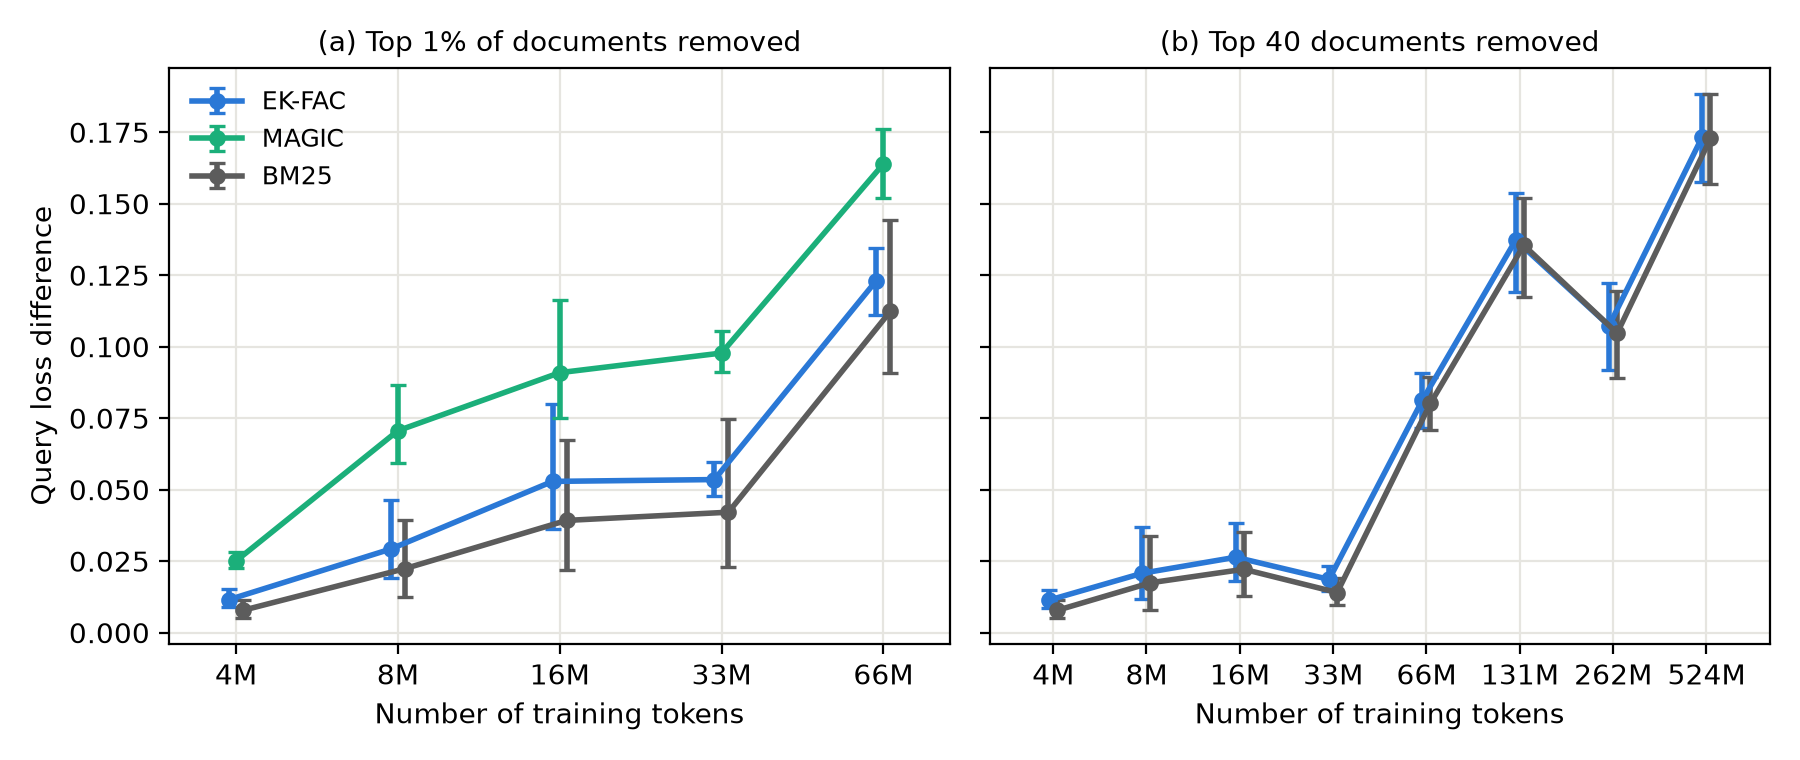
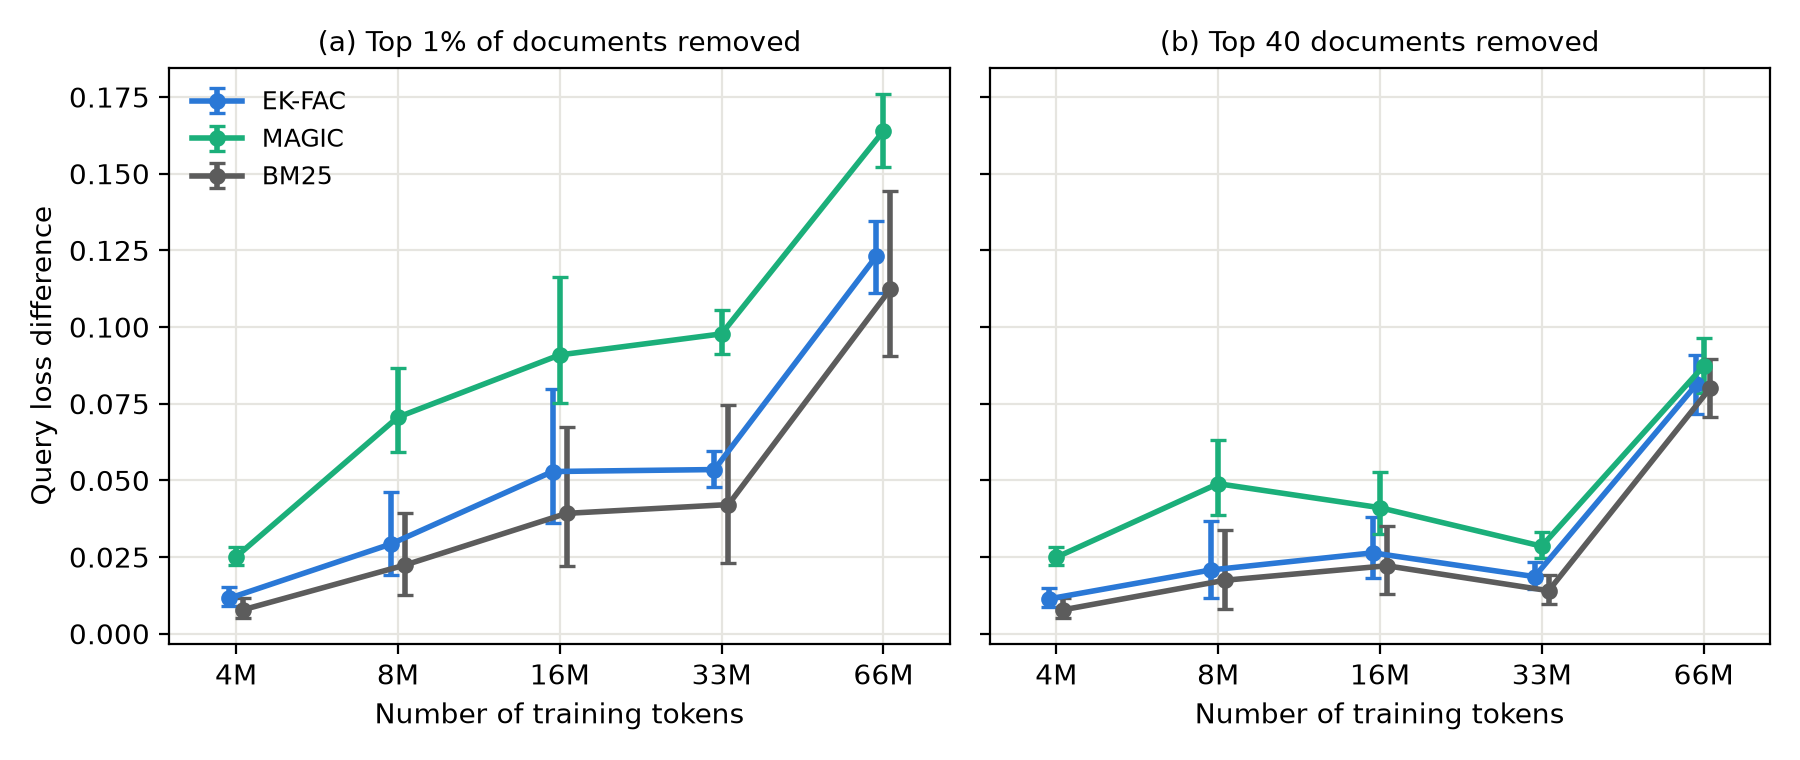
Fix MAGIC top-40 selection: slices must carry MAGIC higher_is_better=false; corrected 32k/64k points
slicefix.py hardcoded higher_is_better: true into every score slice, which
overrode bergson resolve_higher_is_better for the sharded 32k/64k MAGIC
top-40 filters and selected the most-positive (noise) docs. MAGIC records
False (proponents = most-negative). Result was a uniformly negative, off-trend
QLD at 33M/66M. slicefix now copies the source config; existing MAGIC slices
set to false; 32k/64k re-run as 2-query shards with reused controls.

Corrected: 32k QLD +0.0285, 64k QLD +0.0873 (20/20 queries, rank 1 each).
Methods appendix panel (b) capped at 64k docs to match panel (a).

Also: NaN-safe summary_delta_ci (a diverged query no longer erases a point),
figure_audit caps match the figure, gate_ekfac purges use timestamped names,
builder scripts deprecated, README workflow updated.

Claude-Session: https://claude.ai/code/session_0167XKnE2yoCE162n3jHvxC1

diff --git a/scripts/slicefix.py b/scripts/slicefix.py
@@ -1,0 +1,42 @@
+#!/usr/bin/env python3
+"""Slice bergson scores.bin into per-query-column shards (CORRECT alignment).
+    slicefix.py <scores_dir> <out_dir> <out_prefix> <shard_size> [<n_queries>]
+Source dtype is read from info.json offsets (8-byte aligned); reconstructing it
+unaligned misreads every record past row 0 (the 2026-09-04 bug)."""
+import json, sys
+import numpy as np
+from pathlib import Path
+src = Path(sys.argv[1]); out_dir = Path(sys.argv[2]); prefix = sys.argv[3]; step = int(sys.argv[4])
+info = json.load(open(src / "info.json")); dd = info["dtype"]
+nrows = info["num_rows"]; nqs = int(sys.argv[5]) if len(sys.argv) > 5 else info["num_scores"]
+sdt = np.dtype({"names": dd["names"], "formats": [np.dtype(f) for f in dd["formats"]],
+                "offsets": dd["offsets"], "itemsize": dd["itemsize"]})
+mm = np.memmap(src / "scores.bin", dtype=sdt, mode="r", shape=(nrows,))
+for lo in range(0, nqs, step):
+    hi = min(lo + step, nqs); out = out_dir / f"{prefix}_q{lo}_{hi}"; out.mkdir(parents=True, exist_ok=True)
+    on, of = [], []
+    for j in range(hi - lo): on += [f"score_{j}", f"written_{j}"]; of += ["float32", "bool"]
+    odt = np.dtype({"names": on, "formats": of}, align=True)
+    om = np.memmap(out / "scores.bin", dtype=odt, mode="w+", shape=(nrows,))
+    for j in range(hi - lo): om[f"score_{j}"] = mm[f"score_{lo+j}"]; om[f"written_{j}"] = mm[f"written_{lo+j}"]
+    om.flush()
+    oi = dict(info); oi["num_scores"] = hi - lo
+    oi["dtype"] = {"names": on, "formats": of, "offsets": [odt.fields[n][1] for n in on], "itemsize": odt.itemsize}
+    json.dump(oi, open(out / "info.json", "w"), indent=2)
+    # Copy the source config verbatim so the slice inherits the source score
+    # convention (higher_is_better). Hardcoding true here silently flipped
+    # MAGIC (which records false) and inverted proponent selection (2026-09-04b).
+    src_cfg = src / "config.yaml"
+    if src_cfg.is_file():
+        (out / "config.yaml").write_text(src_cfg.read_text())
+    else:
+        (out / "config.yaml").write_text("steps:\n- score:\n    score_cfg:\n      score: individual\n")
+    # Self-check: the slice's column j MUST equal the source's column lo+j
+    # exactly. A silent alignment mismatch (the 2026-09-04 bug) selects wrong
+    # docs and produces garbage filter deltas.
+    _v = np.memmap(out / "scores.bin", dtype=odt, mode="r", shape=(nrows,))
+    for j in range(hi - lo):
+        assert np.array_equal(np.asarray(_v[f"score_{j}"]),
+                              np.asarray(mm[f"score_{lo+j}"])), \
+            f"SLICE MISMATCH col {j} in {out} -- alignment bug"
+    print(f"sliced {out} [verified]")

diff --git a/scripts/scaling_plot_mpl.py b/scripts/scaling_plot_mpl.py
@@ -14,6 +14,7 @@ Regenerate whenever experiments.csv is rebuilt or a top-40 filter lands.
 """
 import argparse
 import csv
+import math
 import os
 import pathlib
 import random
@@ -93,6 +94,11 @@ def summary_delta_ci(run, subdir, *, subtract_random=False,
         val = float(row[column])
         if subtract_random:
             val -= float(row["random_mean"])
+        # A single NaN query (e.g. a diverged retrain) would turn the whole
+        # point into NaN and drop it from the figure silently. Skip it and
+        # let the remaining queries carry the mean.
+        if not math.isfinite(val):
+            continue
         d.append(val)
     if not d:
         return None
@@ -229,13 +235,19 @@ style(ax1, tok_ticks[:CUT], tok_labels[:CUT], "Number of training tokens")
 ax1.set_title("(a) Top 1% of documents removed", fontsize=10)
 ax1.legend(loc="upper left", frameon=False, fontsize=9)
 
-t40_ticks = [tokens(n) for n, _ in TOP40_ROWS]
+# Top-40 panel capped at 64k docs (66M tokens) so all three methods span the
+# same range as panel (a) and the MAGIC series; 128k+ dropped.
+T40 = [(n, run) for n, run in TOP40_ROWS if n <= 64000]
+t40_ticks = [tokens(n) for n, _ in T40]
 draw(ax2, [t * 0.97 for t in t40_ticks],
      [summary_delta_ci(run, "filter_top40_ekfac", subtract_random=True)
-      for _, run in TOP40_ROWS], BLUE)
+      for _, run in T40], BLUE)
+draw(ax2, [t for t in t40_ticks],
+     [summary_delta_ci(run, "filter_top40_magic", subtract_random=True)
+      for _, run in T40], AQUA)
 draw(ax2, [t * 1.03 for t in t40_ticks],
      [summary_delta_ci(run, "filter_top40_bm25", subtract_random=True)
-      for _, run in TOP40_ROWS], BM25)
+      for _, run in T40], BM25)
 style(ax2, t40_ticks, [f"{t / 1e6:.0f}M" for t in t40_ticks],
       "Number of training tokens")
 ax2.set_title("(b) Top 40 documents removed", fontsize=10)

diff --git a/scripts/filter_vs_lds_plot.py b/scripts/filter_vs_lds_plot.py
@@ -75,14 +75,14 @@ for ax, (scorer, label) in zip(axes, [("magic", "MAGIC"), ("ekfac", "EK-FAC")]):
     x = np.array([p[0] for p in pts])
     y = np.array([p[1] for p in pts])
     s = np.array([p[2] for p in pts])
+    muon = np.array([p[4] for p in pts])
     rho = spearmanr(x, y).statistic
     lo, hi = boot(x, y)
     hi_mask = s > 125
     rho_hi = spearmanr(x[hi_mask], y[hi_mask]).statistic
     lo_hi, hi_hi = boot(x[hi_mask], y[hi_mask])
 
-    sc = ax.scatter(x, y, c=s, norm=LogNorm(), cmap="viridis",
-                    s=55, edgecolor="white", linewidth=0.6, zorder=3)
+    sc = split_scatter(ax, x, y, s, muon)
     ax.set_title(f"{label}   $\\rho$ = {rho:+.3f} [{lo:+.2f}, {hi:+.2f}]  (n = {len(x)})",
                  fontsize=11)
     ax.text(0.03, 0.96, f">125 steps:  $\\rho$ = {rho_hi:+.3f} [{lo_hi:+.2f}, {hi_hi:+.2f}]"
@@ -131,7 +131,7 @@ grid[1][0].legend(handles=[
     Line2D([], [], marker="^", linestyle="", color="#777", label="Muon")],
     frameon=False, loc="upper left", fontsize=9)
 
-fig.colorbar(sc, ax=grid, label="training steps", pad=0.01)
+fig.colorbar(sc, ax=grid, label="Training steps", pad=0.01)
 out = ROOT / "figures" / "filter_vs_lds.png"
 fig.savefig(out, dpi=160)
 print(f"  wrote {out}")

diff --git a/scripts/gate_ekfac.py b/scripts/gate_ekfac.py
@@ -52,7 +52,7 @@ def check_inverse(run, purge=False):
         print("inverse: gradients.bin is EMPTY (0 bytes) -> GATE FAIL")
         if purge:
             d = os.path.dirname(p)
-            os.rename(d, d + ".invalid")
+            os.rename(d, d + ".invalid_" + __import__("time").strftime("%Y%m%d_%H%M%S"))
             print(f"purged: {d} -> .invalid")
         return False
     s = sample(np.memmap(p, dtype=np.float32, mode="r"))
@@ -65,7 +65,7 @@ def check_inverse(run, purge=False):
         # bergson's resume checks the DIRECTORY, not file content -- purging only
         # gradients.bin leaves kfac_query/ "complete" and scoring runs gradient-less.
         d = os.path.dirname(p)
-        os.rename(d, d + ".invalid")
+        os.rename(d, d + ".invalid_" + __import__("time").strftime("%Y%m%d_%H%M%S"))
         print(f"purged: {d} -> .invalid (resume will recompute the stage)")
     return ok
 

diff --git a/scripts/bm25_scores.py b/scripts/bm25_scores.py
@@ -168,6 +168,7 @@ def main():
     ap.add_argument("--ngram-max", type=int, default=2)
     ap.add_argument("--min-df", type=int, default=1)
     ap.add_argument("--force", action="store_true")
+    ap.add_argument("--query-dataset", default=None)
     args = ap.parse_args()
 
     root = root_for(args.run_id)
@@ -179,7 +180,7 @@ def main():
     exp = run_config.load(root)
     magic = next(s["magic"] for s in exp["steps"] if "magic" in s)
     train_ds_s = mirrored(magic["data"]["dataset"])
-    query_ds_s = mirrored(magic["query"]["dataset"])
+    query_ds_s = args.query_dataset or mirrored(magic["query"]["dataset"])
     train = load_data_string(train_ds_s, magic["data"].get("split", "train"))
     query = load_data_string(query_ds_s, magic["query"].get("split", "train"))
     train_docs, train_mode = docs(train, magic["data"].get("prompt_column", "text"), magic["model"])

diff --git a/scripts/jina_scores.py b/scripts/jina_scores.py
@@ -102,6 +102,7 @@ def main():
     ap.add_argument("--batch-size", type=int, default=16)
     ap.add_argument("--device", default="cuda:0")
     ap.add_argument("--force", action="store_true")
+    ap.add_argument("--query-dataset", default=None)
     args = ap.parse_args()
 
     root = next((b / args.run_id for b in EXP if (b / args.run_id).is_dir()), None)
@@ -113,7 +114,7 @@ def main():
     exp = run_config.load(root)
     magic = next(s["magic"] for s in exp["steps"] if "magic" in s)
     train_ds = mirrored(magic["data"]["dataset"])
-    query_ds = mirrored(magic["query"]["dataset"])
+    query_ds = args.query_dataset or mirrored(magic["query"]["dataset"])
     # datasets here are pre-tokenized gpt2 input_ids; decode back to text
     from transformers import AutoTokenizer
     gpt2_tok = AutoTokenizer.from_pretrained("gpt2")

diff --git a/scripts/figure_audit.py b/scripts/figure_audit.py
@@ -100,7 +100,11 @@ FIGS.append(("filter_batch_appendix.png  (batch sweep at 16k)",
               for name, pre in SERIES for b in BATCHES]))
 FIGS.append(("filter_method_appendix.png  (EK-FAC vs MAGIC)",
              [(f"{m.upper()} {n//1000}k", pick(SERIES[0][1], f"{n//1000}k_bs256"), m)
-              for m in ("ekfac", "magic") for n in NS]))
+              # Panel (b) top-40 caps at 128k (66M tokens); serial MAGIC scoring
+              # stops at 64k. Beyond those the figure has no point, so auditing
+              # them produced permanent false MISSING flags.
+              for m in ("ekfac", "magic") for n in NS
+              if n <= 64000]))
 
 for title, points in FIGS:
     holes = []

diff --git a/README.md b/README.md
@@ -20,8 +20,9 @@ python build_tuning_csv.py        # tuning.csv      — stage 0: lr selection ru
 python build_experiments_csv.py   # experiments.csv — stage 1: the metasmoothness/LDS grid
 ```
 
-One row per run. Empty result cells are work to claim (see NODES.md). Edit results in the
-builder scripts and regenerate — never in the CSVs, except the two node-claim columns.
+One row per run. Empty result cells are work to claim (see NODES.md). The CSVs are now
+edited directly (builders deprecated 2026-09-04; their consistency checks are slated for a
+standalone lint). data/filter_deltas.csv syncs into experiments.csv via scripts/sync_filter_deltas.py.
 Datasets: `EleutherAI/bergson-smollm2-scaling` on the Hub (verified nested train chain;
 NOTE 2026-09-04: query_20 overlaps train at 64k+ via re-chunked source text --
 use query_20_heldout.hf, drawn from the corpus tail, for clean held-out queries); tooling in `scripts/`.
